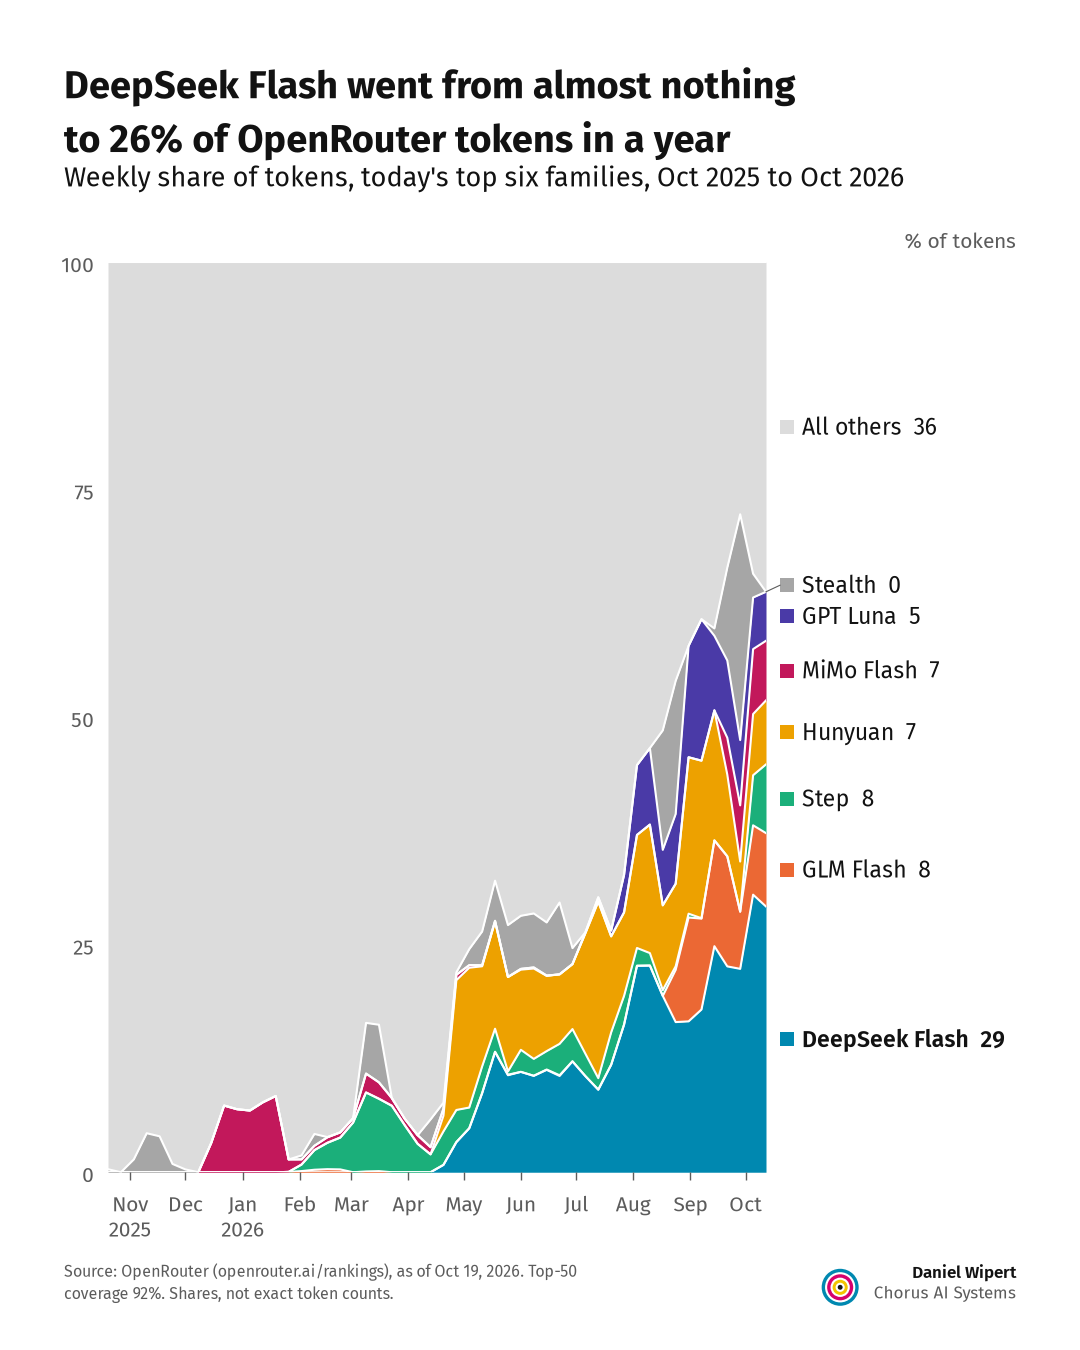
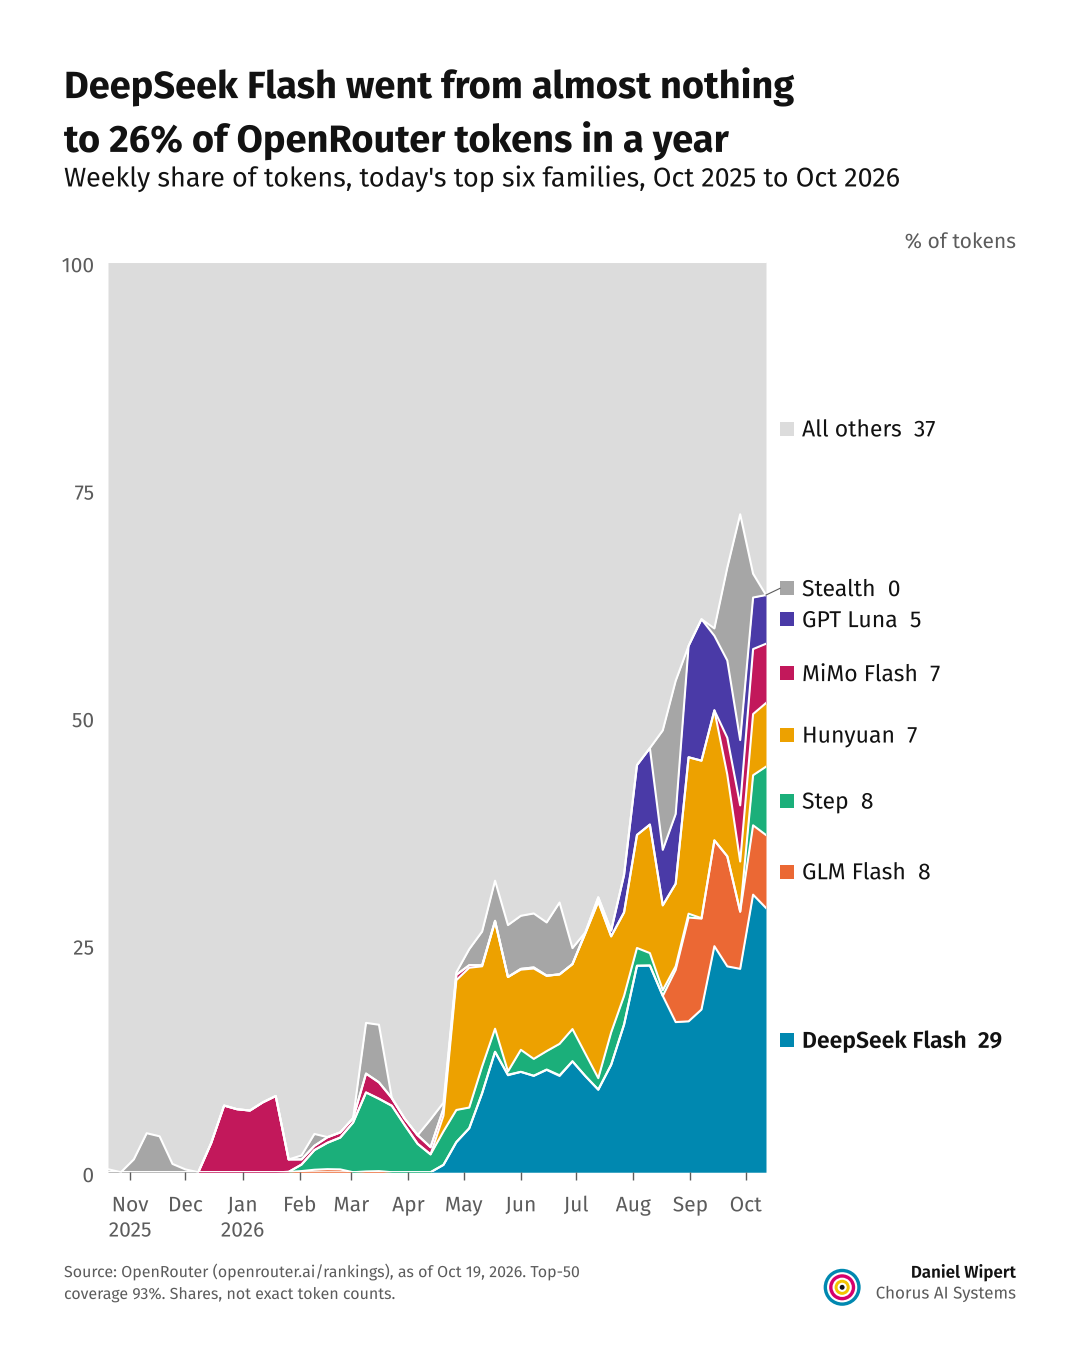
Label 7 new models and rebuild 2026-W42 (now READY TO POST)
- google/gemini-4-argon: new family Gemini Argon (families.csv rule)
- meta/muse-wonder: closed (API only, no downloadable weights); new
  family Muse Wonder
- mistralai/mistral-large-4-0: closed for now, flagged low confidence.
  Mistral plans open weights about Oct 27; switch to open, size Large
  (1.05T parameters) once they are on Hugging Face
- nvidia/nemotron-3.5-super-vl: Medium (124.5B parameters on HF)
- perplexity/pplx-decider-v1.1-27b: open (Apache-2.0 on HF), Small
  (26.1B), Budget, Multimodal, no reasoning; new family pplx-decider
- typesafe/jev-1.14: closed like Jev 1.13, Budget, Multimodal, no
  reasoning
- xiaomi/mimo-v2.6-pro-ultraspeed: open, Large (fast serving of the open
  1T MiMo-V2.6-Pro checkpoint)

Rebuilt W42 from the saved data with run_weekly.py --no-fetch; every
check now passes.

Claude-Session: https://claude.ai/code/session_012wDNjuguhcg8aet5RiZWxx

diff --git a/output/2026-W42/run_report.md b/output/2026-W42/run_report.md
@@ -1,11 +1,11 @@
-# NOT READY TO POST (2026-W42)
+# READY TO POST (2026-W42)
 
-- **FAIL** Labels complete: Unknown weights: 0.04% of top-50 tokens, family: 0.04% of top-50 tokens, release_date: 0.03% of top-50 tokens, price_tier: 0.03% of top-50 tokens, reasoning: 0.03% of top-50 tokens, input_type: 0.03% of top-50 tokens, size: 0.07% of top-50 tokens. Fill in registry/models.csv for: google/gemini-4-argon-20261013, meta/muse-wonder-20261012, mistralai/mistral-large-4-0-20261006, nvidia/nemotron-3.5-super-vl-20261015, perplexity/pplx-decider-v1.1-27b-20261006, typesafe/jev-1.14-20261014, xiaomi/mimo-v2.6-pro-ultraspeed-20260921
+- **PASS** Labels complete: Zero unknown values on company, weights, country, family, release_date, price_tier, reasoning, input_type, size
 - **PASS** Sources complete: Every label has a source
 - **PASS** Same input, same output: Re-aggregating the same data gave identical numbers
-- **PASS** Long tail disclosed: Top-50 coverage for the footer: 92.5%
-- **PASS** Coverage: Labeled tokens are 92.5% of all tokens in the latest week (warn under 80%)
-- **PASS** Big jump: Open share moved +0.6 points in the latest week (warn over 10)
+- **PASS** Long tail disclosed: Top-50 coverage for the footer: 93.0%
+- **PASS** Coverage: Labeled tokens are 93.0% of all tokens in the latest week (warn under 80%)
+- **PASS** Big jump: Open share moved +0.3 points in the latest week (warn over 10)
 - **PASS** History restated: No past week's share moved more than 1 point
 - [ ] Dan: on the first Monday of the month, the top 5 match openrouter.ai/rankings (token totals within 1%)
 
@@ -13,27 +13,22 @@
 
 - deepseek/deepseek-v4.1-flash-20261017: DeepSeek, open (catalog: hugging_face_id deepseek-ai/DeepSeek-V4.1-Flash-1017)
 - google/gemini-4-argon-20261013: Google, closed (rule: labs.csv default for google)
-- meta/muse-wonder-20261012: Meta, no weights (no source)
-- mistralai/mistral-large-4-0-20261006: Mistral AI, no weights (no source)
+- meta/muse-wonder-20261012: Meta, closed (manual: https://betanews.com/article/muse-wonder-frontier-model-developers/ (API only; neither Wonder model ships downloadable weights))
+- mistralai/mistral-large-4-0-20261006: Mistral AI, closed (manual: https://letsdatascience.com/news/mistral-debuts-large-4-open-weight-model-preview-cbf9e0b5 (low confidence: API-only preview; Mistral plans to release weights in late October 2026, about Oct 27; switch to open with size Large (1.05T total parameters) once they are on Hugging Face))
 - nvidia/nemotron-3.5-super-vl-20261015: NVIDIA, open (catalog: hugging_face_id nvidia/NVIDIA-Nemotron-3.5-Super-VL)
-- perplexity/pplx-decider-v1.1-27b-20261006: Perplexity, no weights (no source)
-- typesafe/jev-1.14-20261014: TypeSafe AI, no weights (no source)
-- xiaomi/mimo-v2.6-pro-ultraspeed-20260921: Xiaomi, no weights (no source)
+- perplexity/pplx-decider-v1.1-27b-20261006: Perplexity, open (manual: https://huggingface.co/perplexity-ai/pplx-decider-v1.1-27b (Apache-2.0 weights on HF))
+- typesafe/jev-1.14-20261014: TypeSafe AI, closed (manual: https://openrouter.ai/typesafe/jev-1.14 (API-only structured decision model; no weights on HF))
+- xiaomi/mimo-v2.6-pro-ultraspeed-20260921: Xiaomi, open (manual: https://openrouter.ai/xiaomi/mimo-v2.6-pro-ultraspeed (fast serving of the same 1T MiMo-V2.6-Pro checkpoint, whose weights are at huggingface.co/XiaomiMiMo/MiMo-V2.6-Pro-RL))
 
 ## Blank registry fields
 
-- google/gemini-4-argon-20261013: family
-- meta/muse-wonder-20261012: weights, family, size
-- mistralai/mistral-large-4-0-20261006: weights, size
-- nvidia/nemotron-3.5-super-vl-20261015: size
-- perplexity/pplx-decider-v1.1-27b-20261006: weights, family, release_date, price_tier, reasoning, input_type, size
-- typesafe/jev-1.14-20261014: weights, release_date, price_tier, reasoning, input_type, size
-- xiaomi/mimo-v2.6-pro-ultraspeed-20260921: weights, size
+- None
 
 ## Low-confidence labels to re-check monthly
 
 - inclusionai/ling-3.0-flash-sante-20260904
 - inclusionai/ling-3.1-flash-20261002
+- mistralai/mistral-large-4-0-20261006
 - qwen/qwen3-coder-plus
 - qwen/qwen3.5-flash-20260224
 - qwen/qwen3.5-plus-20260216

diff --git a/output/2026-W42/caption.md b/output/2026-W42/caption.md
@@ -4,9 +4,9 @@ Templates are in captions/. Edit the wording before posting.
 
 ## weights_share
 
-Open-weight models now carry 76% of tokens on OpenRouter.
+Open-weight models now carry 75% of tokens on OpenRouter.
 
-That's up 0.6 points since last week. Open-weight models passed 50% in the week of Apr 27 and have stayed above it since. The peak in the last 52 weeks was 77%.
+That's up 0.3 points since last week. Open-weight models passed 50% in the week of Apr 27 and have stayed above it since. The peak in the last 52 weeks was 77%.
 
 What's driving it: DeepSeek, Z.ai and Xiaomi lead the open-weight models this week.
 
@@ -69,7 +69,7 @@ Source: OpenRouter (openrouter.ai/rankings), as of Oct 19, 2026.
 
 ## size_share
 
-95% of open-weight tokens on OpenRouter go to Large models.
+94% of open-weight tokens on OpenRouter go to Large models.
 
 [One or two sentences on why it matters.]
 
